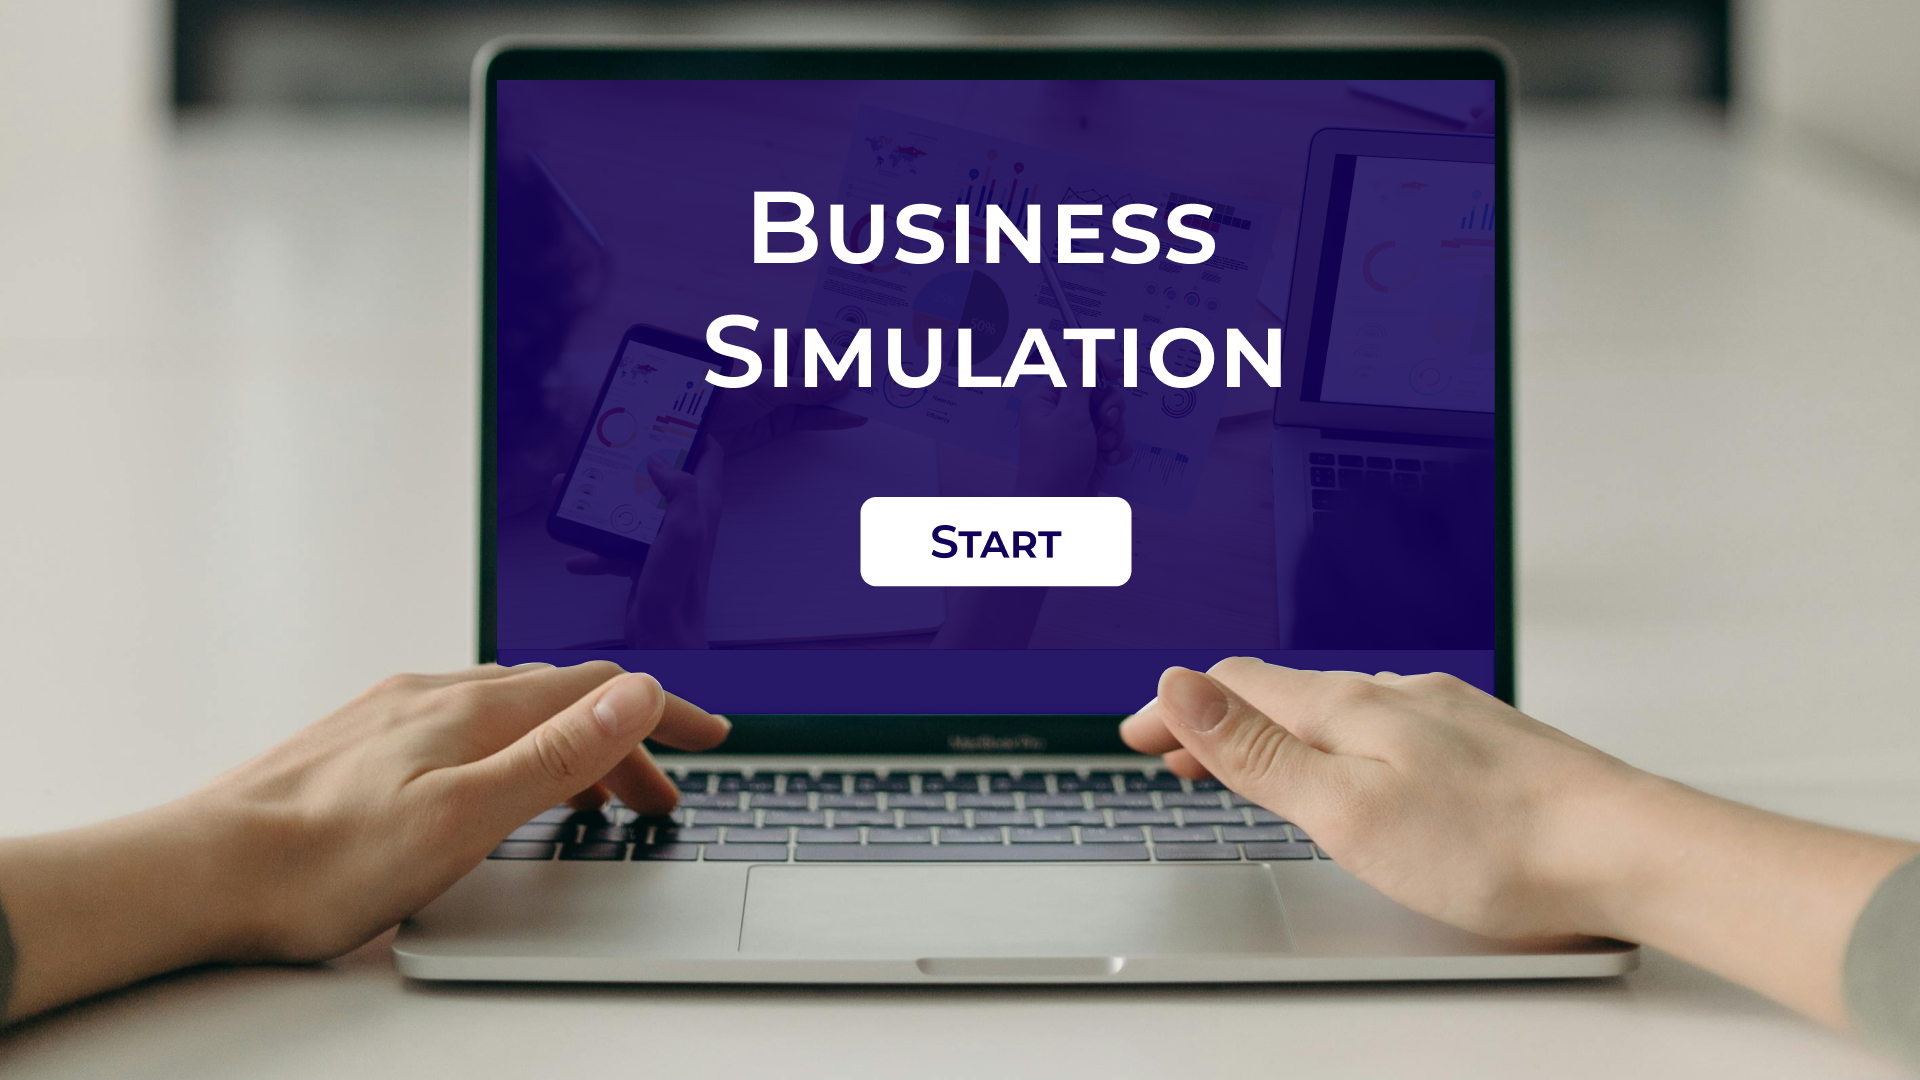
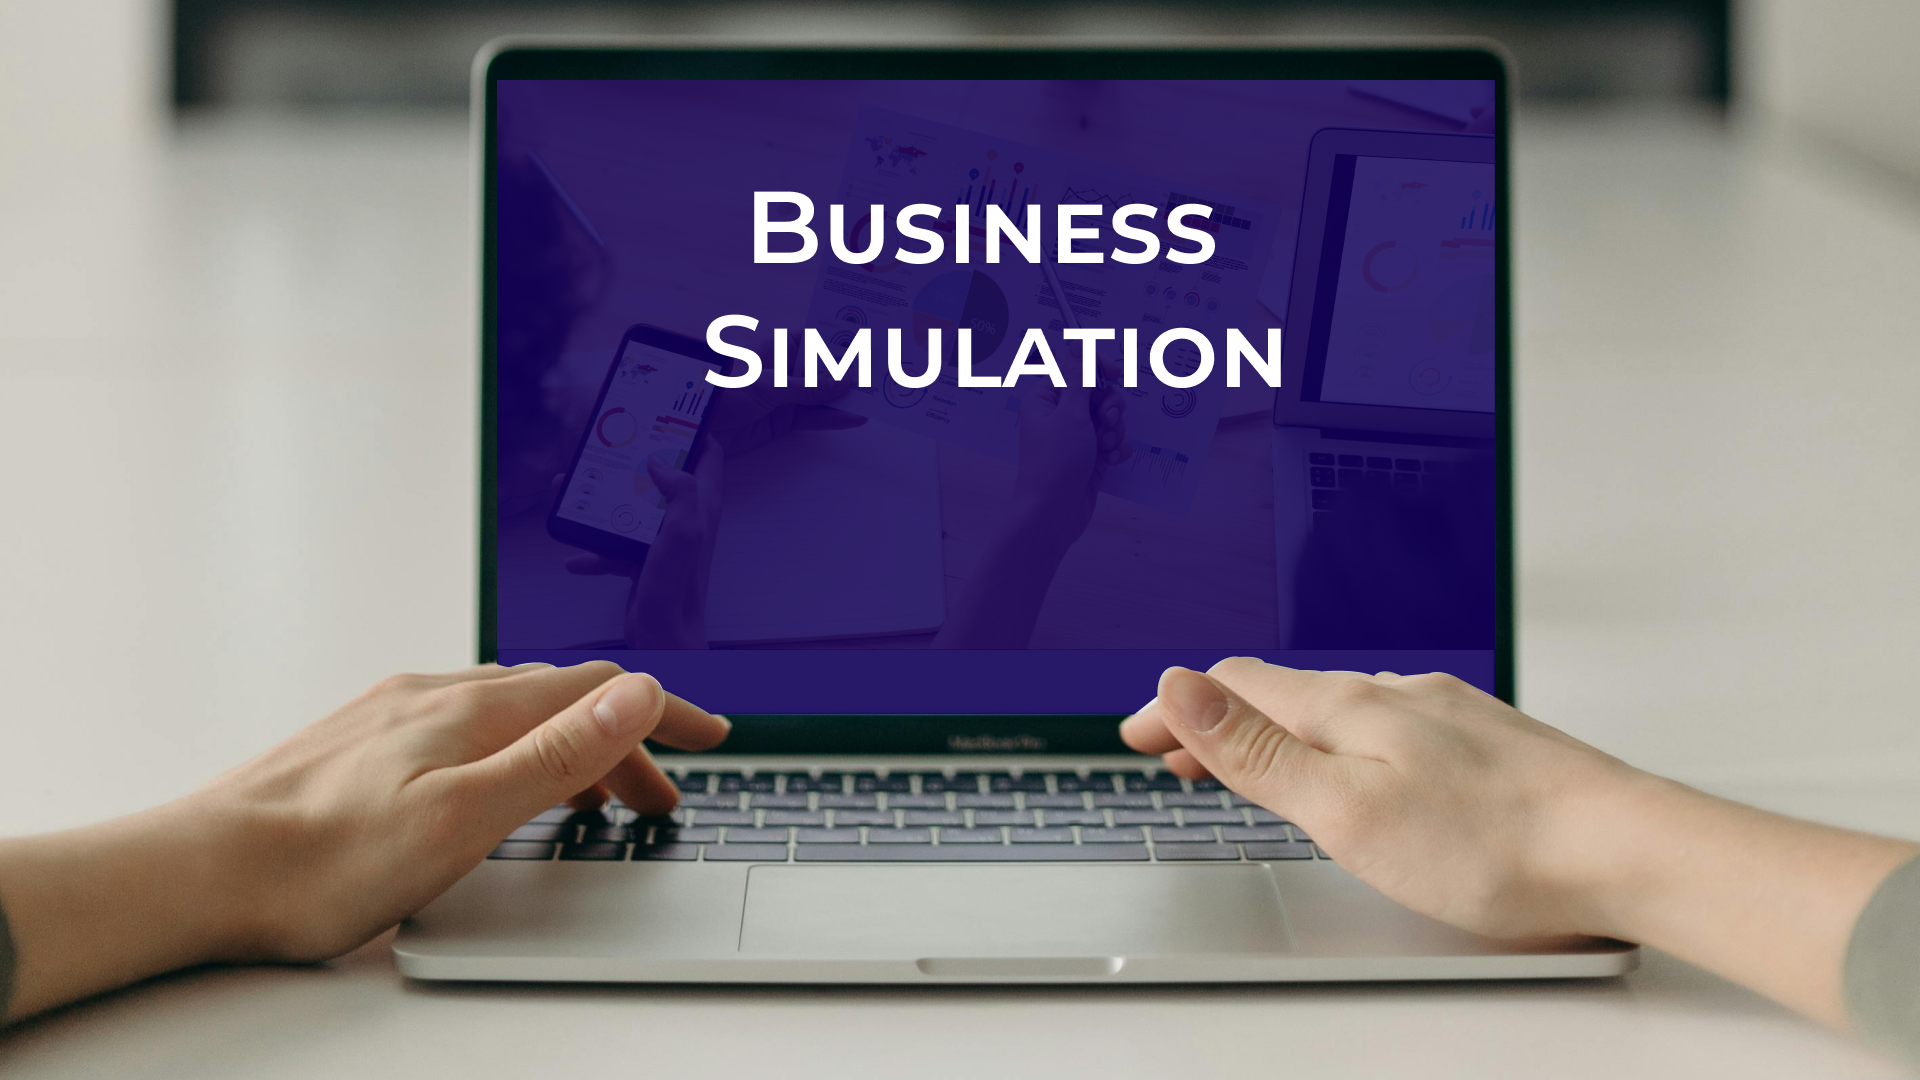
tutorial toggle page

Changed region(s): [[0.4375, 0.4583, 0.5938, 0.55]]

diff --git a/pages/TutorialToggle.tsx b/pages/TutorialToggle.tsx
@@ -1,22 +1,25 @@
 import * as React from "react";
-// import CButton from "../components/CButton";
+import CButton from "../components/CButton";
+import Avatar from "../components/Avatar";
+
 
 const TutorialToggle = () => {
-  // const log=()=>{
-  //   console.log('====================================');
-  //   console.log(`Button Click`);
-  //   console.log('====================================');
-  // }
+  const log = () => {
+    console.log("====================================");
+    console.log(`Button Click`);
+    console.log("====================================");
+  };
   return (
     <>
-      <h1>Tutorial Page</h1>
-      {/* <div className="center">
-        <CButton
-         onClick={log}> Yes</CButton>
-        <CButton
-         onClick={log}> No</CButton>
-        
-      </div> */}
+      <div className="full-screen center-column">
+        <h1>Hi! Welcome to Business Simulation</h1>
+        <h2>Do you want tutorials to guide you?</h2>
+        <div  className="m-2">
+        <CButton onClick={log}> Yes</CButton>
+        <CButton onClick={log}> No</CButton>
+        </div>
+      <Avatar/>
+      </div>
     </>
   );
 };

diff --git a/src/index.css b/src/index.css
@@ -1,5 +1,7 @@
+@import url('https://fonts.googleapis.com/css2?family=Montserrat:ital,wght@0,100..900;1,100..900&display=swap');
+
 :root {
-  font-family: Inter, system-ui, Avenir, Helvetica, Arial, sans-serif;
+  font-family: "Montserrat", system-ui, Helvetica, Arial, sans-serif;
   line-height: 1.5;
   font-weight: 400;
 
@@ -36,21 +38,22 @@ body {
   /* min-height: 100vh; */
 }
 
-h1 {
-  font-size: 3.2em;
-  line-height: 1.1;
-}
-
 button {
-  border-radius: 8px;
+  border-radius: 16px;
   border: 1px solid transparent;
   padding: 0.6em 1.2em;
-  font-size: 1em;
-  font-weight: 500;
-  font-family: inherit;
-  background-color: #1a1a1a;
+  margin: 1em;
+  background-color: #ffffff;
+  color: #12005A;
   cursor: pointer;
   transition: border-color 0.25s;
+
+  font-size: 1.5em;
+  font-family: "Montserrat", sans-serif;
+  font-weight: 600;
+  font-variant: small-caps;
+  font-style: normal;
+  line-height: normal;
 }
 button:hover {
   border-color: #646cff;

diff --git a/components/CButton.tsx b/components/CButton.tsx
@@ -1,5 +1,6 @@
 import * as React from "react";
 
+
 // Define the props interface for the CButton component
 interface CButtonProps {
   onClick: () => void;
@@ -9,5 +10,10 @@ interface CButtonProps {
 const CButton: React.FC<CButtonProps> = ({ onClick, children }) => {
   return <button onClick={onClick}>{children}</button>;
 };
+
+// const CButton: React.FC<CButtonProps> = ({ onClick, text }) => {
+//   return <button onClick={onClick}><span> {text}</span></button>;
+// };
+
 
 export default CButton;

diff --git a/src/App.css b/src/App.css
@@ -8,9 +8,32 @@
   background-repeat: no-repeat;
 }
 
+.full-screen{
+  width: 100vw;
+  height: 100vh;
+}
+
 .center{
   display: flex;
   justify-content: center;
   align-items: center;
 }
 
+.center-column{
+  display: flex;
+  flex-direction: column;
+  justify-content: center;
+  align-items: center;
+}
+
+.m-2{
+  display: flex;
+  justify-content: space-between;
+}
+
+.avatar{
+  position: absolute;
+  bottom: 0;
+  left: 0;
+  height: 40%;
+}

diff --git a/pages/BeginPage.tsx b/pages/BeginPage.tsx
@@ -11,7 +11,7 @@ const BeginPage = () => {
     return (
         <>
             <div className="begin-bg-cover center">
-                <CButton onClick={tutorialpage}>Start</CButton>
+                <CButton onClick={tutorialpage}>START</CButton>
             </div>
         </>
     );

diff --git a/components/Avatar.tsx b/components/Avatar.tsx
@@ -1,0 +1,7 @@
+import React from "react";
+
+function Avatar() {
+  return <img className="avatar" src="./src/assets/img/avatar.png"/>;
+}
+
+export default Avatar;
